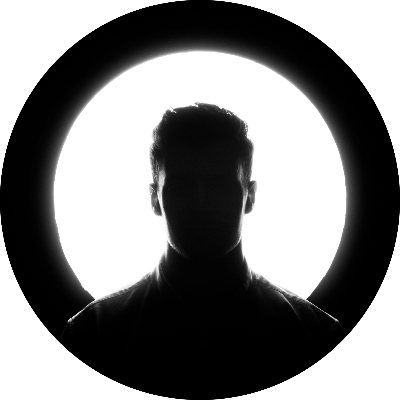
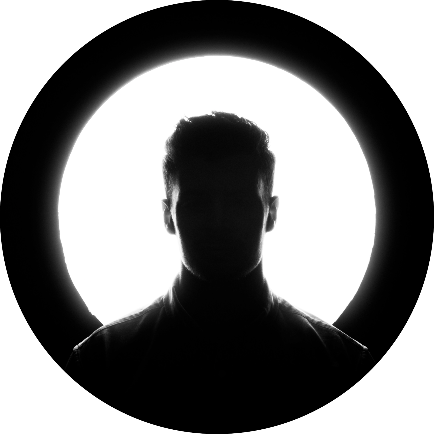
finishing

diff --git a/html/portofolio.html b/html/portofolio.html
@@ -20,16 +20,16 @@
         <div class="collapse navbar-collapse" id="navbarNav">
           <ul class="navbar-nav ms-auto">
             <li class="nav-item">
-              <a class="nav-link active" aria-current="page" href="#">Home</a>
+              <a class="nav-link active" aria-current="page" href="#home">Home</a>
             </li>
             <li class="nav-item">
-              <a class="nav-link" href="#">About</a>
+              <a class="nav-link" href="#about">About</a>
             </li>
             <li class="nav-item">
-              <a class="nav-link" href="#">Work</a>
+              <a class="nav-link" href="#work">Work</a>
             </li>
             <li class="nav-item">
-              <a class="nav-link" href="#">Contact</a>
+              <a class="nav-link" href="#contact">Contact</a>
             </li>
           </ul>
         </div>
@@ -38,20 +38,21 @@
 
     <!-- Home -->
     <section id="home" class="home container">
-      <div class="row align-items-center">
-        <div class="col-8">
+      <div class="row d-flex align-items-center flex-md-row flex-column-reverse">
+        <div class="col-12 col-md-8">
           <h3 class="fw-semibold">Hi! I am</h3>
           <h1 class="fw-bold">YourName</h1>
-          <p>I am a beginner web developer based in Indonesia.</p>
-          <a class="btn button" href="../image/img-profile.png">Resume</a>
+          <p>I am Software Engineer based in Indonesia</p>
+          <a class="btn button" href="../image/img-profile.png" download>Resume</a>
         </div>
-        <div class="col-4"><img src="../image/img-profile.png" class="my-image" alt="image" /></div>
+        <div class="my-img col-12 col-md-4 d-flex justify-content-md-end justify-content-center">
+          <img src="../image/img-profile.png" alt="Profile" />
+        </div>
       </div>
-
-      <div class="arrow d-flex flex-column align-items-center w-100 mt-5">
-        <a class="text-decoration-none text-dark" href="#about">More Info</a>
-        <img src="../image/arrow.svg" class="mt-2" id="arrow" alt="arrow" />
-      </div>
+      <a href="#about" class="text-decoration-none w-100 d-flex align-items-center flex-column mt-3 arrow">
+        <div class="text-dark">More Info</div>
+        <img id="arrow" class="mt-2" src="../image/arrow.svg" alt="arrow icon" />
+      </a>
     </section>
 
     <!-- about -->
@@ -97,13 +98,13 @@
     <!-- work -->
     <section id="work" class="work container">
       <div class="row d-flex align-items-center gap-5">
-        <div class="col">
+        <div class="col-12 col-md-6">
           <p>
             Lorem, ipsum dolor sit amet consectetur adipisicing elit. Expedita doloremque, sapiente debitis nemo iusto obcaecati at velit error nobis repellat similique omnis nesciunt sunt ut, distinctio quod suscipit voluptas neque et,
             accusantium sit magni. Exercitationem dolores totam odit quis, sed eveniet porro aliquam iure, voluptatibus fugit ipsa quae, eius labore.
           </p>
         </div>
-        <div class="col work-img">
+        <div class="col-12 col-md-5 work-img">
           <div class="work-img-item" id="work-1">
             <img src="../image/work-1.png" alt="work-1" />
           </div>
@@ -120,7 +121,7 @@
     <!-- contact -->
     <section id="contact" class="contact container">
       <div class="row d-flex align-items-center gap-5">
-        <div class="col">
+        <div class="col-12 col-lg-6">
           <p>
             Lorem ipsum dolor sit amet consectetur adipisicing elit. Recusandae cumque corrupti consectetur consequuntur dolore beatae provident. Pariatur, quisquam aut dolores nesciunt aperiam, perspiciatis, ut nobis maxime molestias ipsum
             placeat nostrum!
@@ -141,7 +142,7 @@
             </div>
           </div>
         </div>
-        <div class="col">
+        <div class="col-12 col-lg-5">
           <form class="contact-form" onsubmit="onFormSubmit(event)">
             <div class="mb-3">
               <label for="inp_email" class="form-label">Email address</label>

diff --git a/css/portofolioStyle.css b/css/portofolioStyle.css
@@ -19,28 +19,17 @@ section::before {
   background-color: white;
   box-shadow: 0 0 0 4px rgba(0, 0, 0, 0.25);
 }
-.my-image {
-  width: 400px;
-}
-#home h1 {
+
+.home h1 {
   font-size: 72px;
 }
-#home h3 {
+.home h3 {
   font-size: 48px;
 }
-
-/* about */
-.btn.button {
-  border: 3px solid black;
-  border-radius: 24px;
+.home .my-img img {
+  width: 100%;
 }
-.btn.button:hover,
-.btn.button.active {
-  background-color: black;
-  border: 3px solid black;
-  color: white;
-}
-.arrow img {
+.home.arrow img {
   width: 60px;
 }
 /* arrow more info */
@@ -59,6 +48,18 @@ section::before {
     transform: translateY(0);
   }
 }
+/* about */
+.btn.button {
+  border: 3px solid black;
+  border-radius: 24px;
+}
+.btn.button:hover,
+.btn.button.active {
+  background-color: black;
+  border: 3px solid black;
+  color: white;
+}
+
 .about::before {
   content: "About";
 }
@@ -145,4 +146,16 @@ section::before {
 }
 .form-label {
   font-weight: 700;
+}
+
+@media only screen and (max-width: 768px) {
+  .home .my-img {
+    width: 50%;
+  }
+}
+@media only screen and (max-width: 576px) {
+  section::before {
+    font-size: 64px;
+    left: 8px;
+  }
 }
